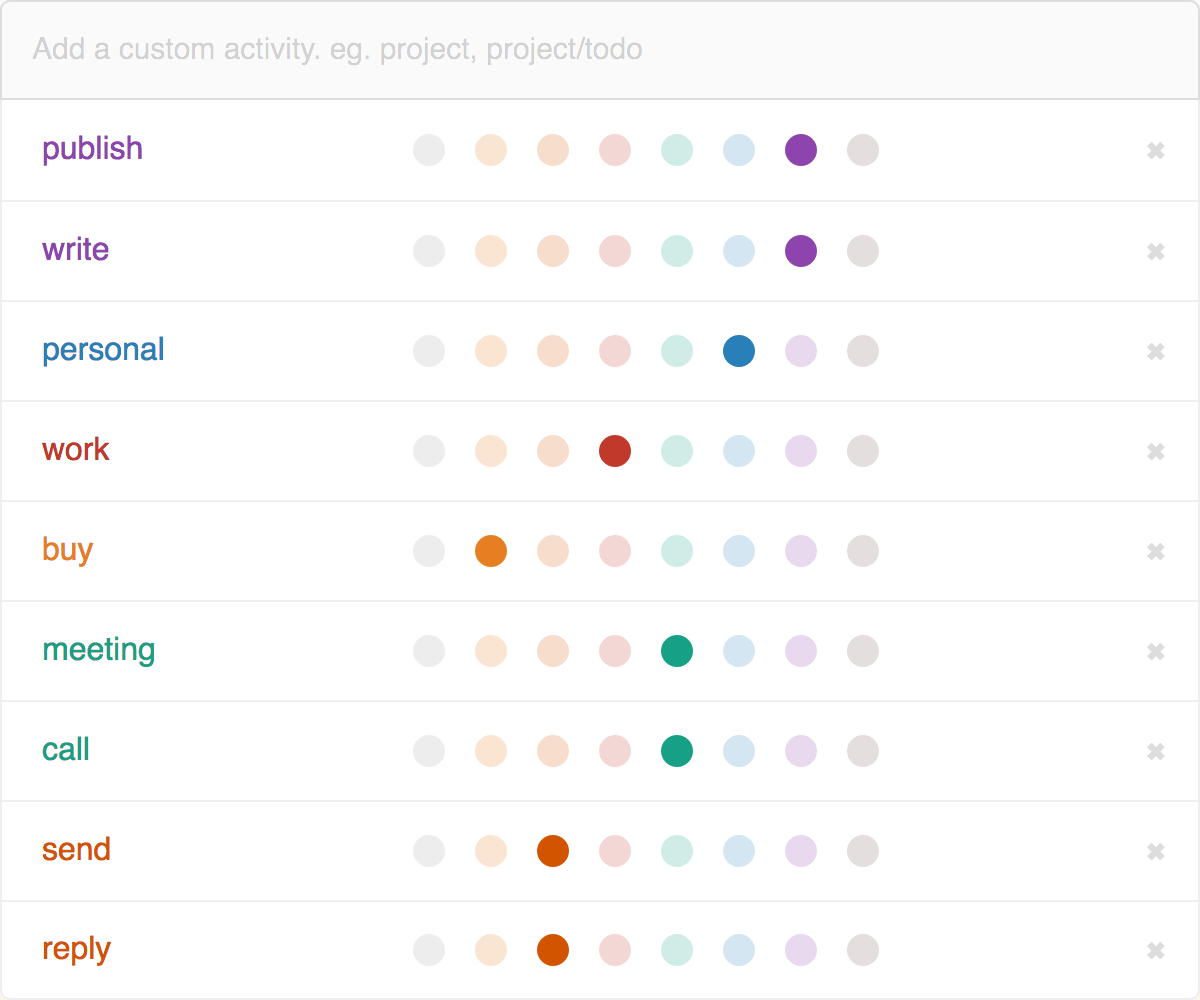
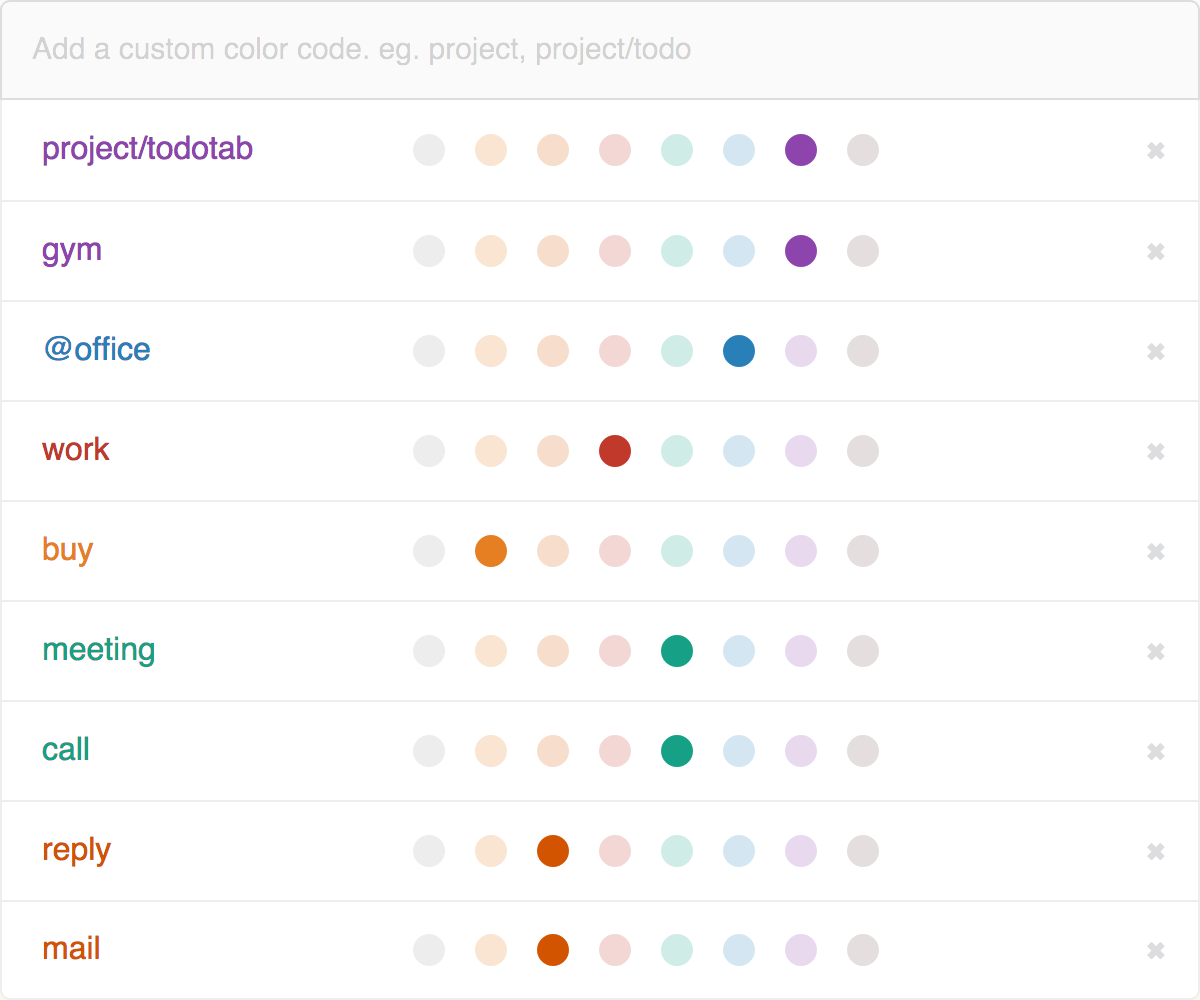
Modifying title and subtitle for custom color coding page

diff --git a/js/todotab.jsx b/js/todotab.jsx
@@ -310,11 +310,11 @@ Layout.Customize = React.createClass({
 			<div>
 				<div className="CustomizeHeder">
 					{/* <img src="images/icon128.png" className="Logo"/> */}
-					<h1>Customize Activities</h1>
-					<p>Expand your activity list by adding and managing new tags.</p>
+					<h1>Customize Color Codings</h1>
+					<p>Add and delete your color code vocabulary</p>
 				</div>
 				<TextBox
-					placeholder="Add a custom activity. eg. project, project/todo"
+					placeholder="Add a custom color code. eg. project, project/todo"
 					onEnter={this.addActivity.bind(this)}/>
 
 				<Activitylist items={this.state.activities}
